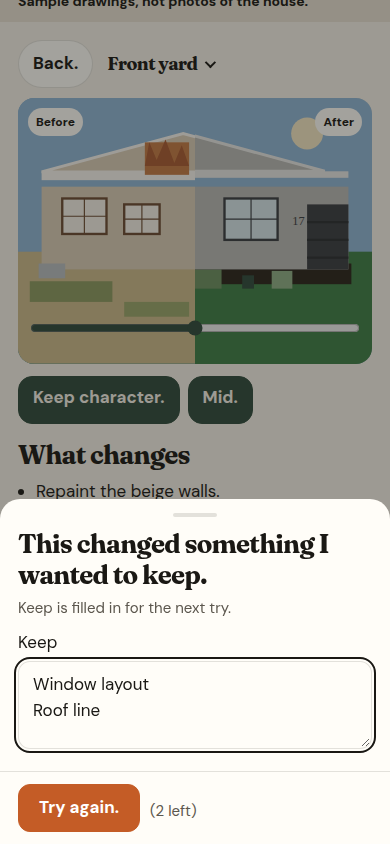
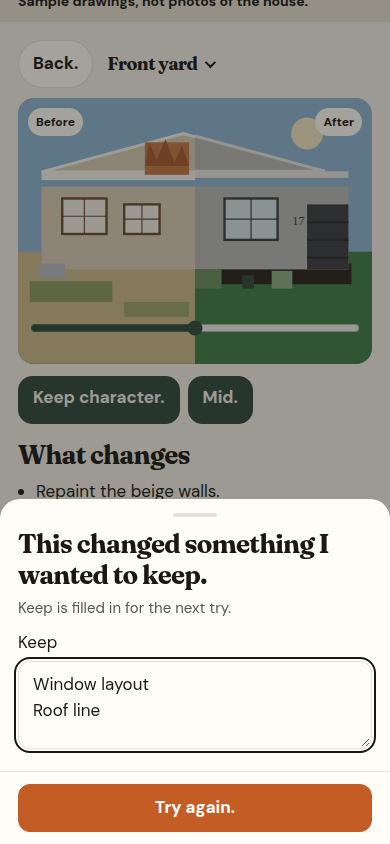
Open capture from the drift sheet instead of generating.
After Keep is edited, Try again saves that list and opens capture for the zone. The sheet no longer makes a picture or shows how many tries are left.

Changed region(s): [[0.3385, 0.9242, 0.9538, 0.9858], [0.1231, 0.955, 0.3077, 0.9858]]

diff --git a/src/pages/Gallery.tsx b/src/pages/Gallery.tsx
@@ -1,6 +1,6 @@
 import { useState } from "react";
 import { useNavigate, useParams, useSearchParams } from "react-router-dom";
-import { copy, galleryRetryLabel } from "../copy";
+import { copy } from "../copy";
 import { styleLabel, tierLabel } from "../data/guides";
 import { ActionBar, BeforeAfter, Sheet, TopBar } from "../components/Chrome";
 import { useZonePicker } from "../components/ZoneNav";
@@ -13,7 +13,7 @@ export default function Gallery() {
   const { zoneId = "" } = useParams();
   const [params] = useSearchParams();
   const navigate = useNavigate();
-  const { state, dispatch, generate, busyZoneId } = useRenovate();
+  const { state, dispatch, busyZoneId } = useRenovate();
   const plan = activePlan(state);
   const picker = useZonePicker(zoneId);
   const [picked, setPicked] = useState<string | null>(null);
@@ -44,7 +44,6 @@ export default function Gallery() {
   const left = triesLeft(link?.attempts ?? 0);
   const hasUpload = pictures.some((item) => item.source === "uploaded");
   const showingUploaded = current?.source === "uploaded";
-  const retryLabel = galleryRetryLabel(link?.attempts ?? 0, hasUpload);
   const fromZone = link?.styleFromZoneId ? state.zones.find((item) => item.id === link.styleFromZoneId) : undefined;
   const changes = link ? whatChanges({ read: link.readLine, keep: link.keep, replace: link.replace }) : [];
   const smallAfter =
@@ -53,27 +52,24 @@ export default function Gallery() {
       : "";
   const showingApproved = Boolean(current && link?.approvedProposalId === current.id);
 
-  async function retry(drift: boolean) {
-    if (!zone || !link || left === 0) return;
-    if (drift) {
-      const keep = keepDraft
-        .split("\n")
-        .map((line) => line.trim())
-        .filter(Boolean);
-      dispatch({
-        type: "set-guides",
-        planId: currentPlan.id,
-        zoneId: zone.id,
-        style: link.style,
-        styleNote: link.styleNote,
-        budget: link.budget,
-        keep,
-        replace: link.replace,
-      });
-    }
+  function saveKeepAndOpenCapture() {
+    if (!zone || !link) return;
+    const keep = keepDraft
+      .split("\n")
+      .map((line) => line.trim())
+      .filter(Boolean);
+    dispatch({
+      type: "set-guides",
+      planId: currentPlan.id,
+      zoneId: zone.id,
+      style: link.style,
+      styleNote: link.styleNote,
+      budget: link.budget,
+      keep,
+      replace: link.replace,
+    });
     setDriftOpen(false);
-    const result = await generate(zone.id, { drift });
-    if (result.ok) setPicked(result.proposalId);
+    navigate(`/zone/${zone.id}`);
   }
 
   return (
@@ -212,12 +208,9 @@ export default function Gallery() {
           title={copy.drift}
           onClose={() => setDriftOpen(false)}
           footer={
-            <div className="try-row">
-              <button className="btn btn-primary" type="button" disabled={left === 0} onClick={() => void retry(true)}>
-                {retryLabel}
-              </button>
-              <span className="meta">{copy.triesLeft(left)}</span>
-            </div>
+            <button id="drift-try" className="btn btn-primary btn-wide" type="button" onClick={saveKeepAndOpenCapture}>
+              {copy.tryAgain}
+            </button>
           }
         >
           <p className="meta">Keep is filled in for the next try.</p>
